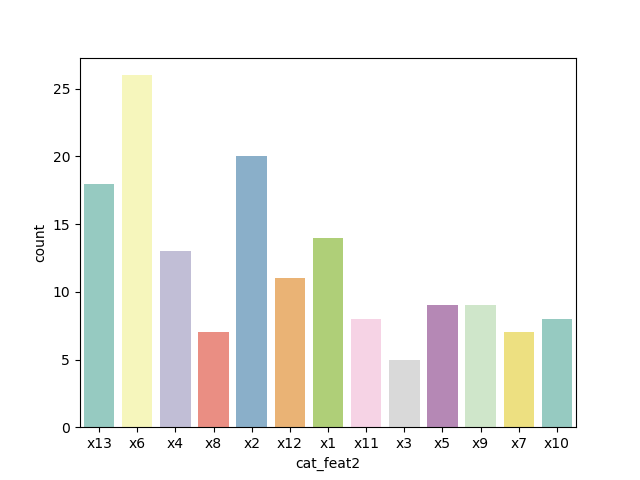
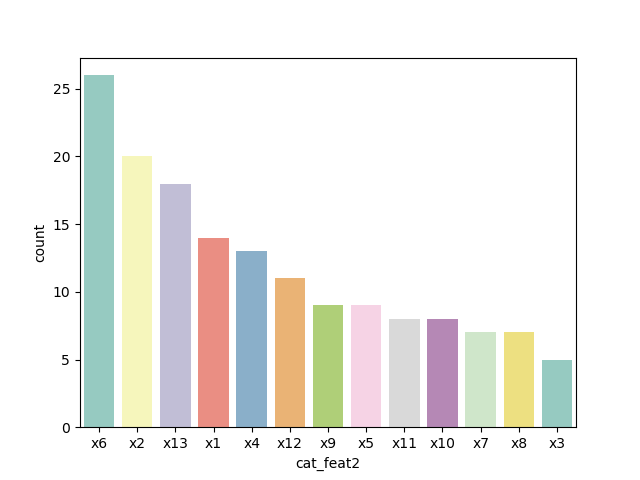
Added sorting to fplot.

diff --git a/data_handler.py b/data_handler.py
@@ -119,7 +119,7 @@ def content_check(ctx, mode):
 def get_dist(feat_name, url_plot, url_data=data_url):
     train = pd.read_csv(url_data)
     fig, ax = plt.subplots()
-    sns.countplot(train[feat_name], palette='Set3', ax=ax)
+    sns.countplot(train[feat_name], order=train[feat_name].value_counts().index, palette='Set3', ax=ax)
     fig.savefig(url_plot)
 
 
@@ -136,5 +136,4 @@ def get_prop_plot(feat_name, url_plot, url_data=data_url, target='Result'):
 
 if __name__ == '__main__':
     print("Testing...")
-    # df = pd.read_csv(data_url)
 
